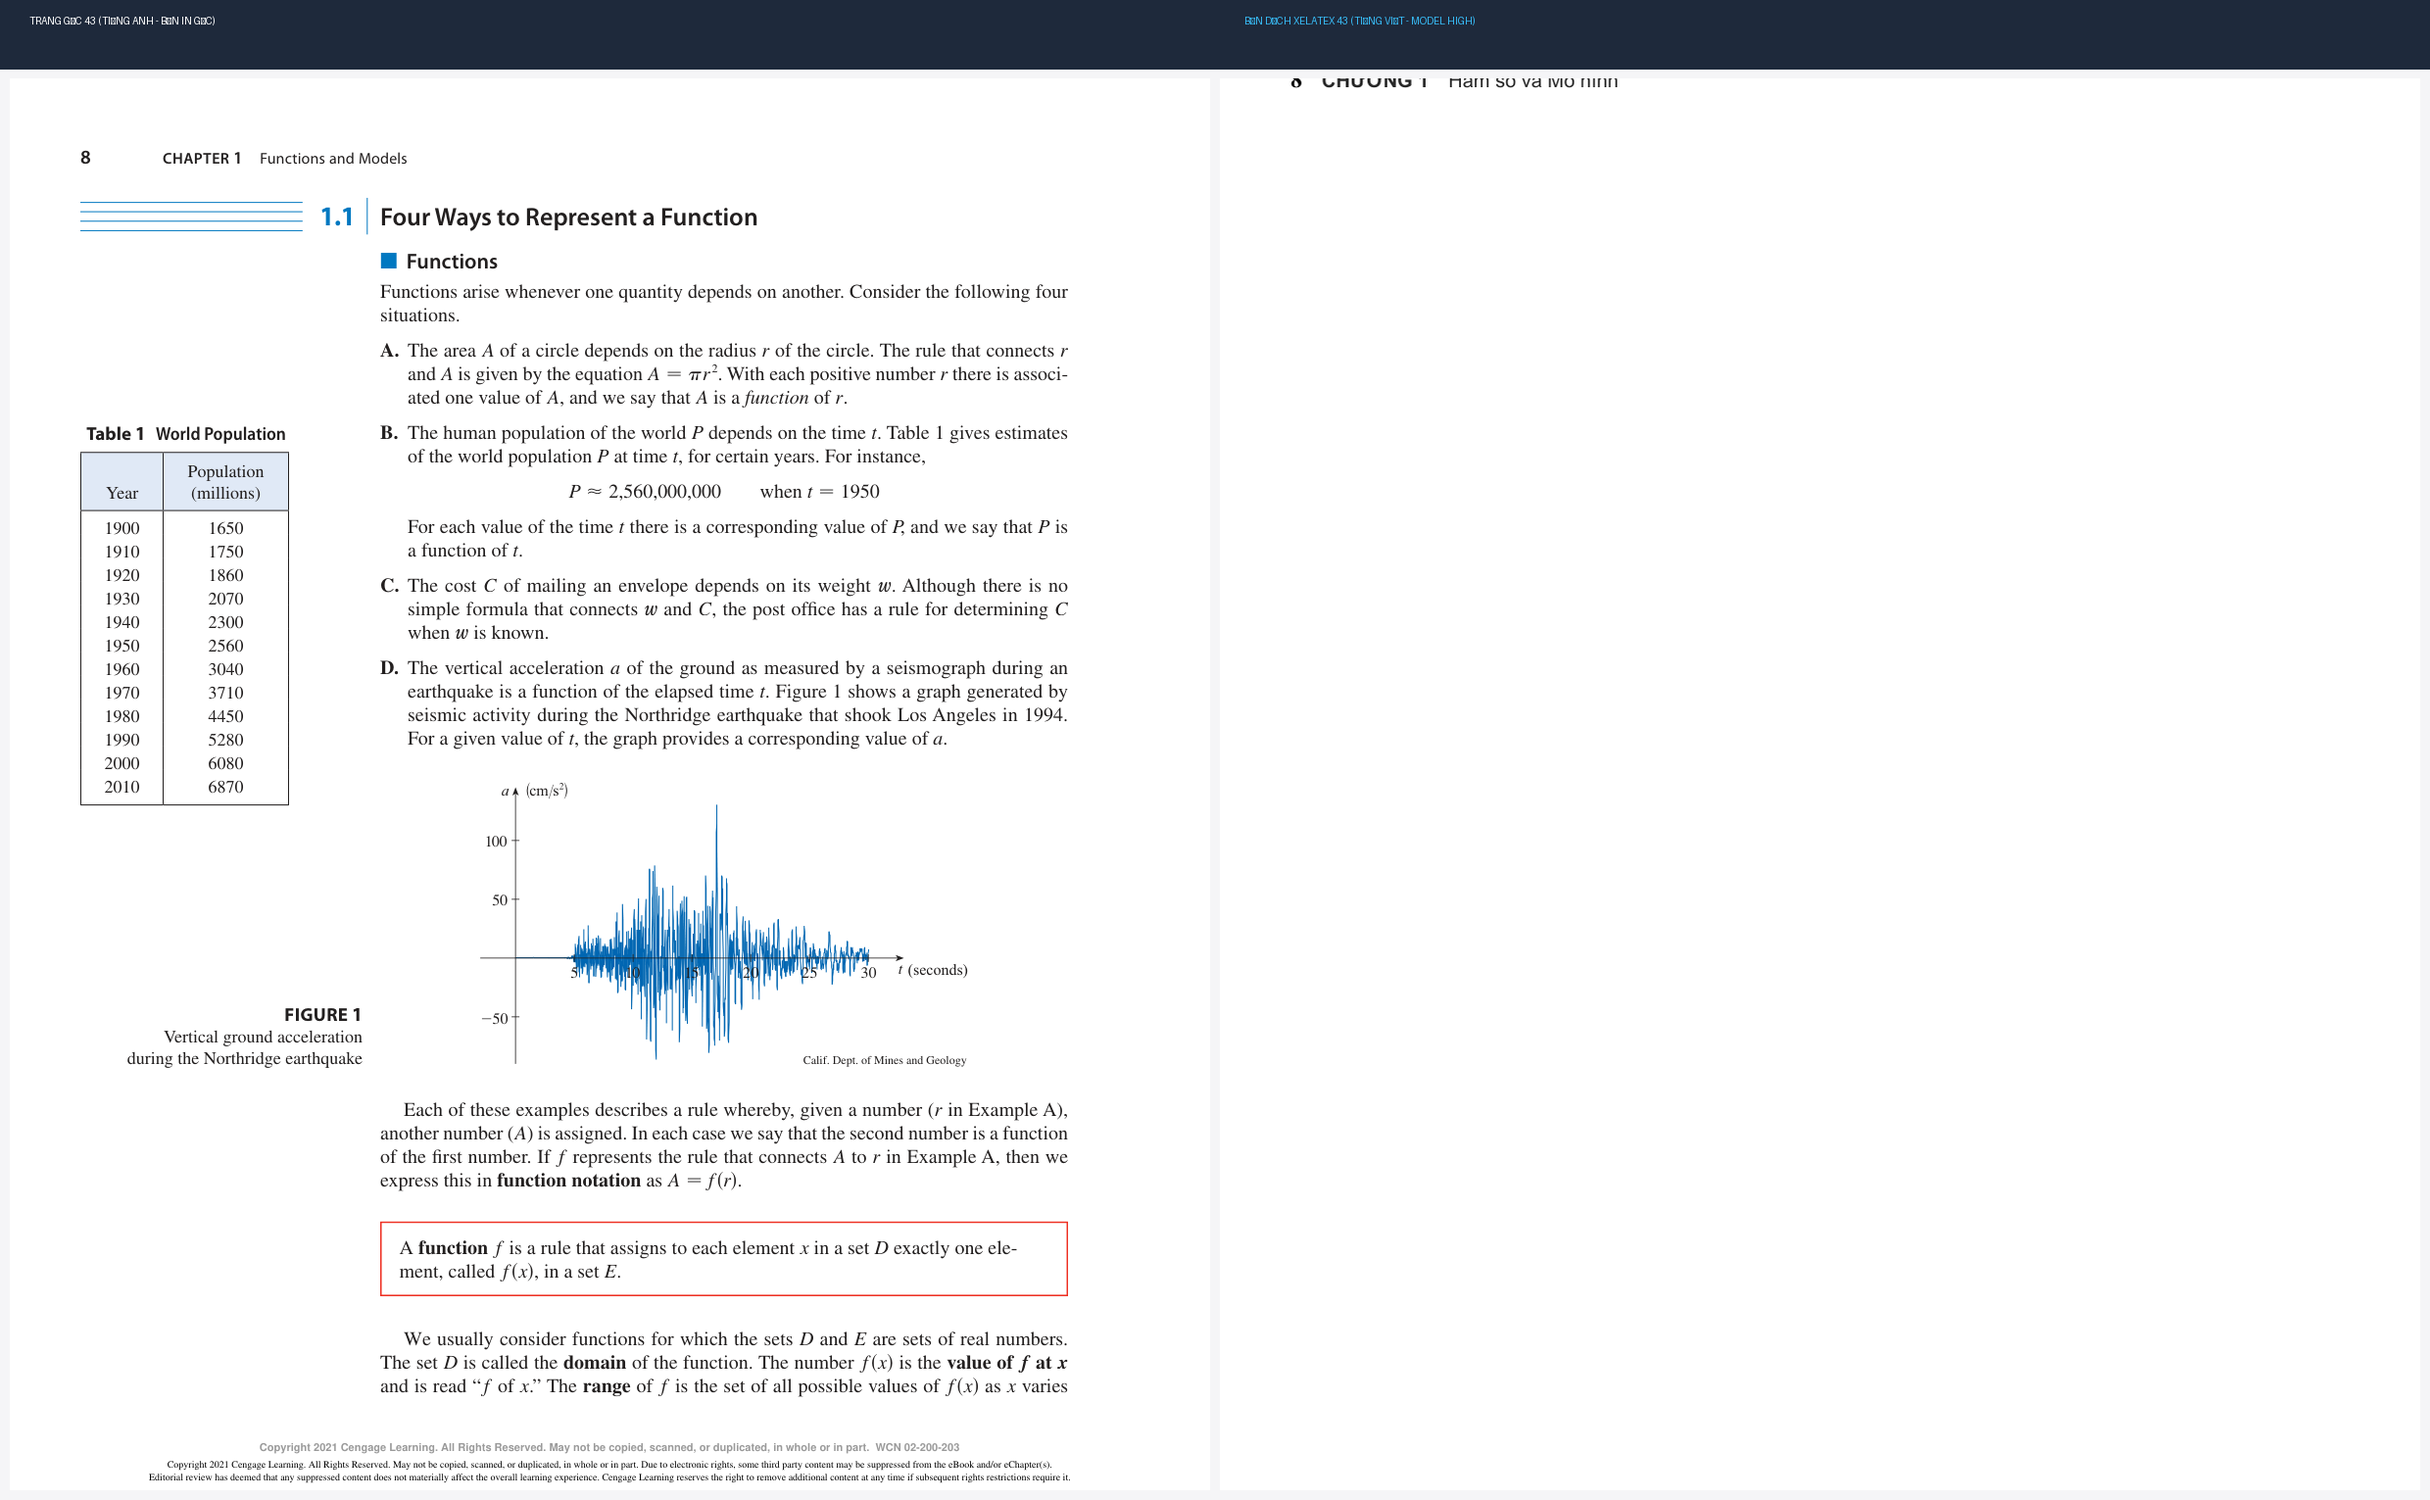
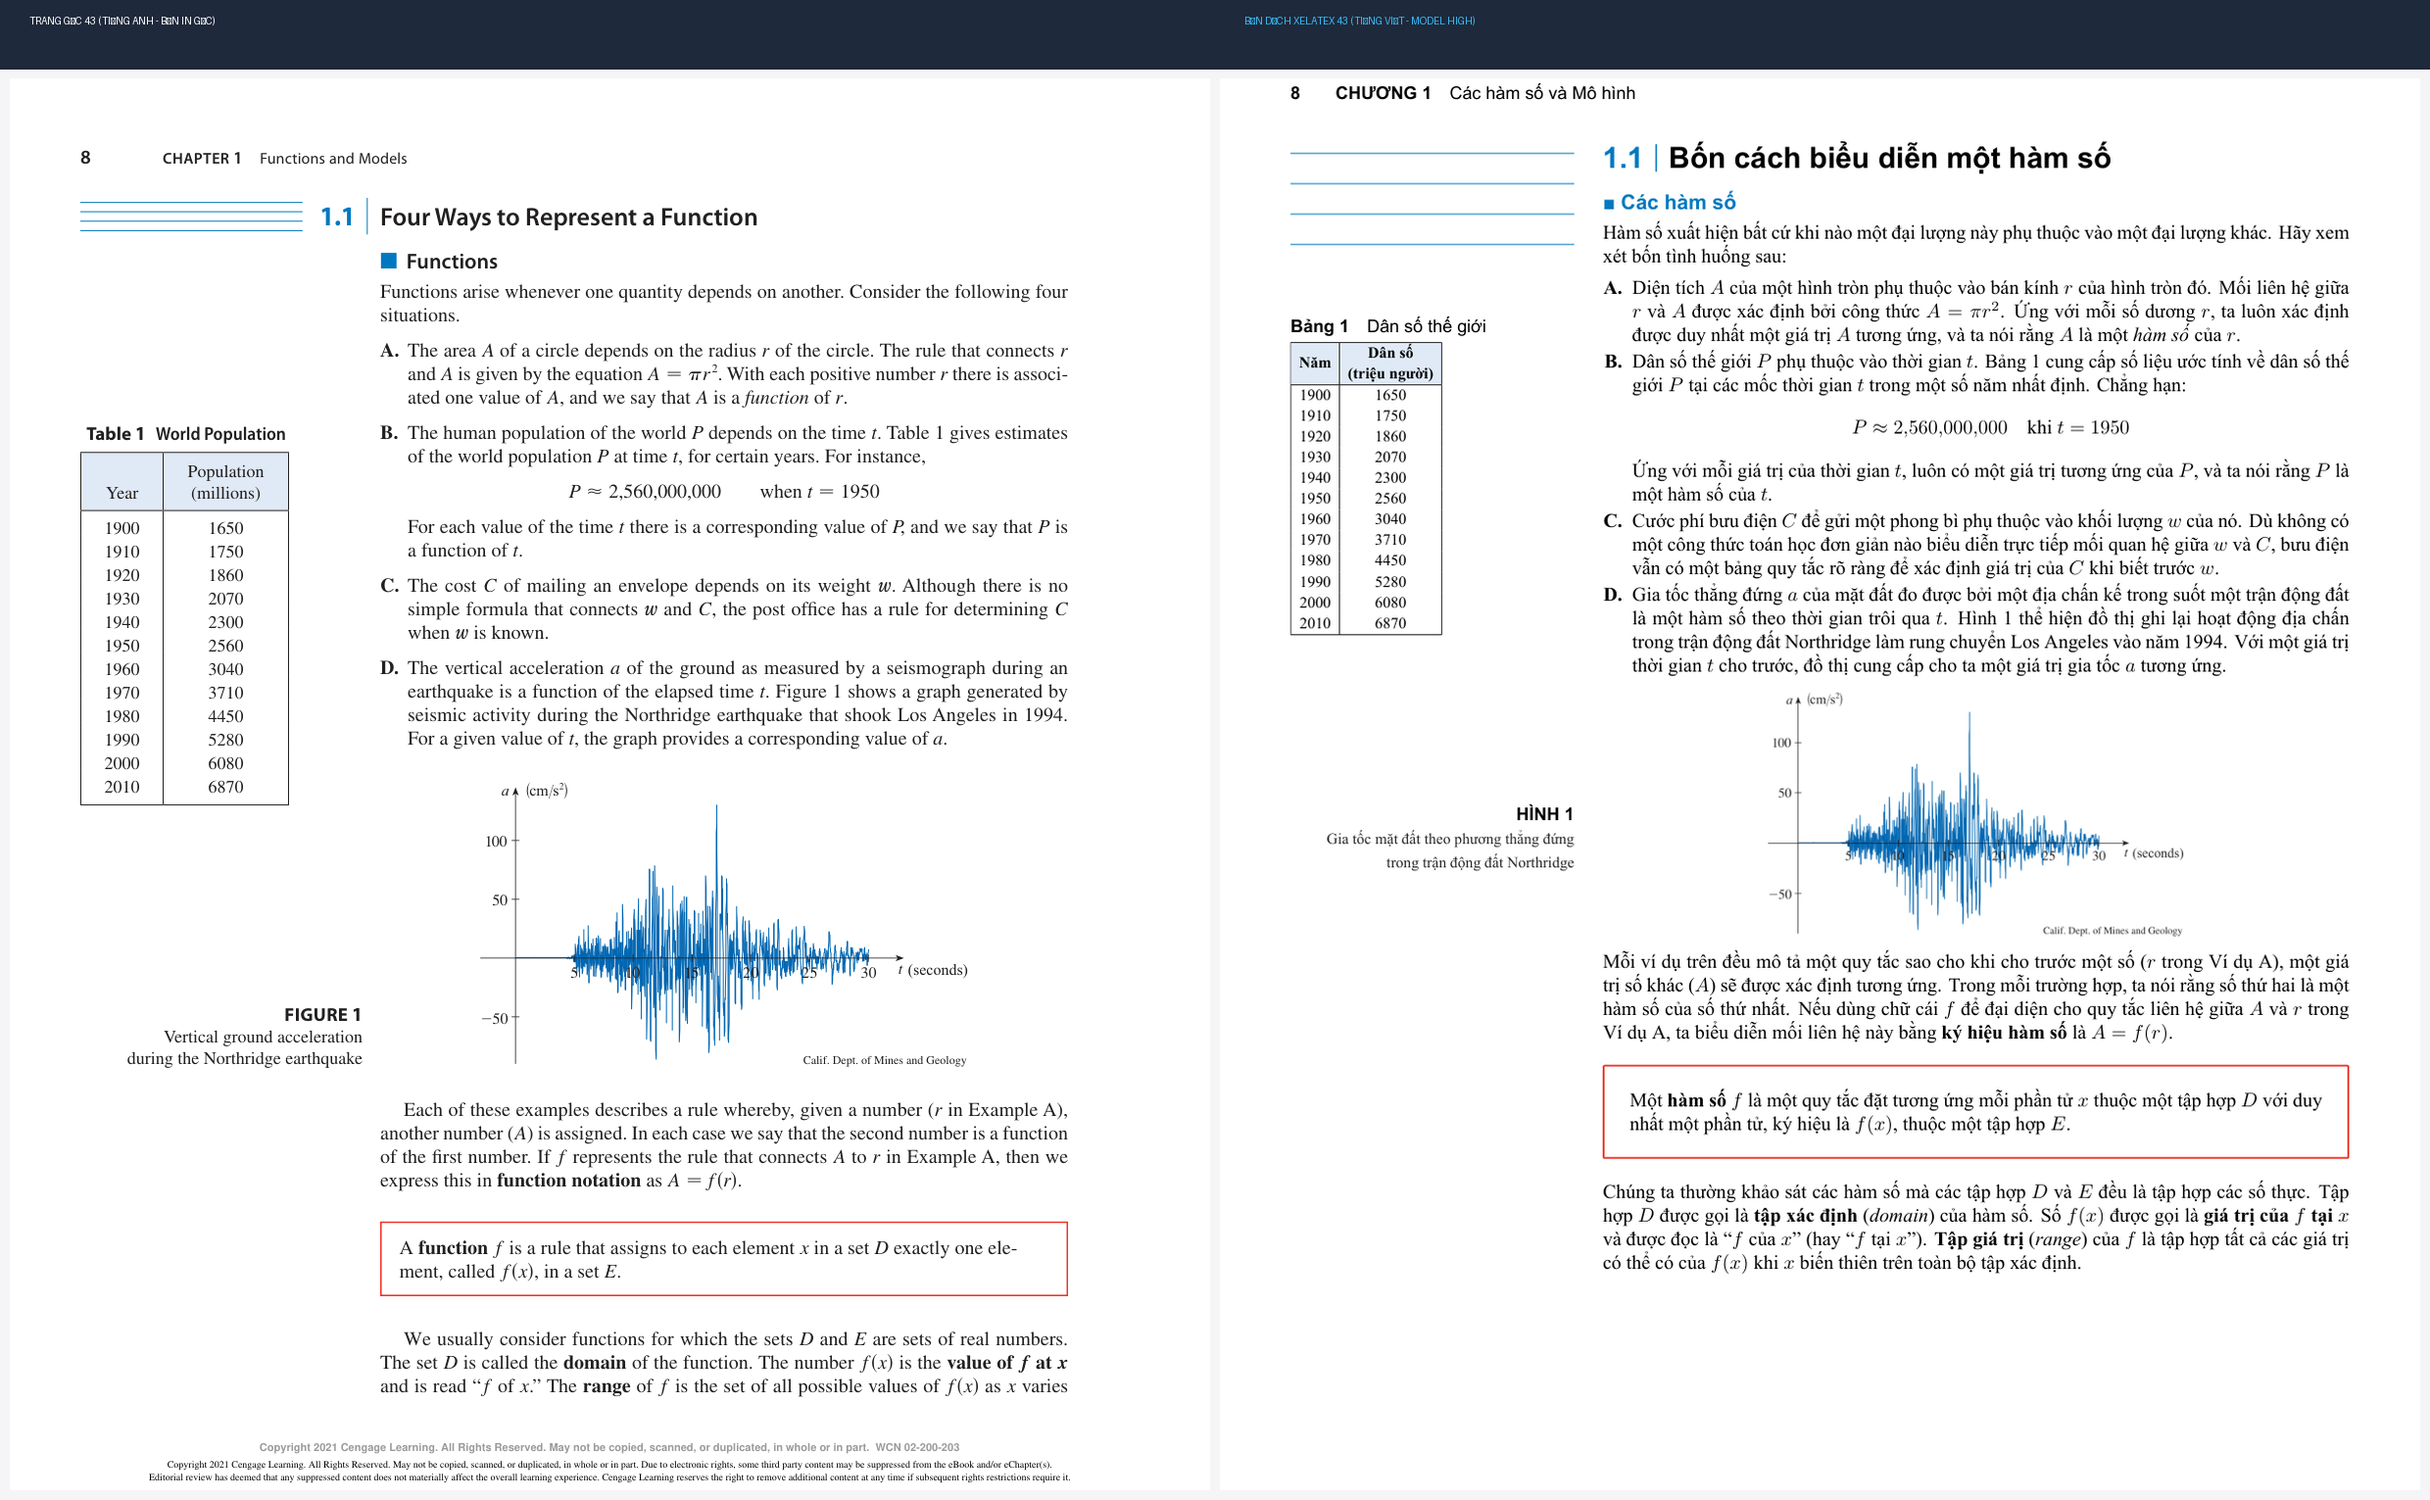
verify(ch01-p0043): tinh chinh doi chieu 98% trang 43 (1 trang chuan) [gemini-3.8-flash-high]

diff --git a/chapters/ch01/pages/page_0043.tex b/chapters/ch01/pages/page_0043.tex
@@ -1,15 +1,27 @@
-\fancyhead[L]{\textbf{\large 8}\quad\sffamily\textbf{\color{darkgray}CHƯƠNG 1}\quad\sffamily\color{darkgray}Hàm số và Mô hình}
+\fancyhead[L]{\fontsize{9pt}{11pt}\selectfont\textbf{\textsf{8}}\qquad \textbf{\textsf{CHƯƠNG 1}}\quad \textsf{Các hàm số và Mô hình}}
 \fancyhead[R]{}
 
 \noindent
-\begin{minipage}[t]{0.26\textwidth}
-    \vspace{3.75cm}
-    {\small\textbf{\textsf{Bảng 1}}\quad \textsf{Dân số thế giới}}\\[0.15cm]
-    \small
+\begin{minipage}[t]{0.268\textwidth}
+    % 4 vạch cyan trên cùng bên lề
+    \vspace*{-2pt}%
+    {\color{stewartcyan}%
+    \rule{\linewidth}{0.5pt}\vspace{3.5pt}\par
+    \rule{\linewidth}{0.5pt}\vspace{3.5pt}\par
+    \rule{\linewidth}{0.5pt}\vspace{3.5pt}\par
+    \rule{\linewidth}{0.5pt}\par
+    }
+
+    \vspace{1.15cm}
+    \noindent
+    {\fontsize{9pt}{11pt}\selectfont\textbf{\textsf{Bảng 1}}\quad \textsf{Dân số thế giới}}\\[2pt]
+    {\fontsize{8pt}{9.8pt}\selectfont
+    \setlength{\tabcolsep}{4pt}
+    \renewcommand{\arraystretch}{1.08}
     \begin{tabular}{|c|c|}
         \hline
         \rowcolor{stewarttableheader}
-        \textbf{Năm} & \textbf{\shortstack{Dân số\\(triệu người)}} \\
+        \textbf{Năm} & \textbf{\makecell{Dân số\\(triệu người)}} \\
         \hline
         1900 & 1650 \\
         1910 & 1750 \\
@@ -24,62 +36,56 @@
         2000 & 6080 \\
         2010 & 6870 \\
         \hline
-    \end{tabular}
+    \end{tabular}}
 
-    \vspace{3.35cm}
+    \vspace{3.0cm}
     {\raggedleft
-    {\small\textbf{\textsf{HÌNH 1}}}\\[2pt]
-    {\footnotesize Gia tốc thẳng đứng của mặt đất trong trận động đất Northridge}\par}
+    {\fontsize{9pt}{11pt}\selectfont\textbf{\textsf{HÌNH 1}}}\\[2pt]
+    {\fontsize{7.8pt}{9.8pt}\selectfont\color{darkgray} Gia tốc mặt đất theo phương thẳng đứng\\trong trận động đất Northridge}\par}
 \end{minipage}%
 \hfill
-\begin{minipage}[t]{0.71\textwidth}
+\begin{minipage}[t]{0.705\textwidth}
+    \vspace*{-8pt}
     \noindent
-    \parbox[c]{1.5cm}{%
-        \color{stewartcyan}%
-        \rule{1.5cm}{0.6pt}\\[2.2pt]%
-        \rule{1.5cm}{0.6pt}\\[2.2pt]%
-        \rule{1.5cm}{0.6pt}\\[2.2pt]%
-        \rule{1.5cm}{0.6pt}\\[2.2pt]%
-        \rule{1.5cm}{0.6pt}%
-    }%
-    \hspace{0.25cm}%
-    {\color{stewartcyan}\LARGE\textbf{\textsf{1.1}}}%
-    \hspace{0.25cm}%
-    {\color{stewartcyan}\rule[-0.2cm]{0.8pt}{0.85cm}}%
-    \hspace{0.25cm}%
-    {\LARGE\textbf{\textsf{Bốn cách biểu diễn một hàm số}}}
+    {\color{stewartcyan}\fontsize{15pt}{18pt}\selectfont\textbf{\textsf{1.1}}}%
+    \hspace{6pt}%
+    {\color{stewartcyan}\rule[-2pt]{0.8pt}{14pt}}%
+    \hspace{6pt}%
+    {\fontsize{15pt}{18pt}\selectfont\textbf{\textsf{Bốn cách biểu diễn một hàm số}}}
     
-    \vspace{0.4cm}
-    \noindent{\large\textbf{\textsf{\color{stewartcyan}■ Hàm số}}}
-    \vspace{0.18cm}
+    \vspace{8pt}
+    \noindent{\fontsize{10.5pt}{13pt}\selectfont\textbf{\textsf{\color{stewartcyan}■ Các hàm số}}}
+    \vspace{3pt}
 
     Hàm số xuất hiện bất cứ khi nào một đại lượng này phụ thuộc vào một đại lượng khác. Hãy xem xét bốn tình huống sau:
 
-    \begin{description}[leftmargin=1.5em, itemsep=0.15cm, topsep=0.15cm]
-        \item[\textbf{A.}] Diện tích $A$ của một hình tròn phụ thuộc vào bán kính $r$ của hình tròn đó. Mối liên hệ giữa $r$ và $A$ được xác định bởi công thức $A = \pi r^2$. Ứng với mỗi số dương $r$, ta luôn xác định được duy nhất một giá trị $A$ tương ứng, và ta nói rằng $A$ là một \textit{hàm số} của $r$.
+    \begin{enumerate}[label=\textbf{\Alph*.}, leftmargin=1.5em, itemsep=1.5pt, topsep=2pt, parsep=0pt]
+        \item Diện tích $A$ của một hình tròn phụ thuộc vào bán kính $r$ của hình tròn đó. Mối liên hệ giữa $r$ và $A$ được xác định bởi công thức $A = \pi r^2$. Ứng với mỗi số dương $r$, ta luôn xác định được duy nhất một giá trị $A$ tương ứng, và ta nói rằng $A$ là một \textit{hàm số} của $r$.
 
-        \item[\textbf{B.}] Dân số thế giới $P$ phụ thuộc vào thời gian $t$. Bảng 1 cung cấp số liệu ước tính về dân số thế giới $P$ tại các mốc thời gian $t$ trong một số năm nhất định. Chẳng hạn:
+        \item Dân số thế giới $P$ phụ thuộc vào thời gian $t$. Bảng 1 cung cấp số liệu ước tính về dân số thế giới $P$ tại các mốc thời gian $t$ trong một số năm nhất định. Chẳng hạn:
         \[
         P \approx 2{,}560{,}000{,}000 \quad \text{khi } t = 1950
         \]
         Ứng với mỗi giá trị của thời gian $t$, luôn có một giá trị tương ứng của $P$, và ta nói rằng $P$ là một hàm số của $t$.
 
-        \item[\textbf{C.}] Cước phí bưu điện $C$ để gửi một phong bì phụ thuộc vào trọng lượng $w$ của nó. Dù không có một công thức toán học đơn giản nào biểu diễn trực tiếp mối quan hệ giữa $w$ và $C$, bưu điện vẫn có một bảng quy tắc rõ ràng để xác định giá trị của $C$ khi biết trước $w$.
+        \item Cước phí bưu điện $C$ để gửi một phong bì phụ thuộc vào khối lượng $w$ của nó. Dù không có một công thức toán học đơn giản nào biểu diễn trực tiếp mối quan hệ giữa $w$ và $C$, bưu điện vẫn có một bảng quy tắc rõ ràng để xác định giá trị của $C$ khi biết trước $w$.
 
-        \item[\textbf{D.}] Gia tốc thẳng đứng $a$ của mặt đất đo được bởi một địa chấn kế trong suốt một trận động đất là một hàm số theo thời gian trôi qua $t$. Hình 1 thể hiện đồ thị ghi lại hoạt động địa chấn trong trận động đất Northridge làm rung chuyển Los Angeles vào năm 1994. Với một giá trị thời gian $t$ cho trước, đồ thị cung cấp cho ta một giá trị gia tốc $a$ tương ứng.
-    \end{description}
+        \item Gia tốc thẳng đứng $a$ của mặt đất đo được bởi một địa chấn kế trong suốt một trận động đất là một hàm số theo thời gian trôi qua $t$. Hình 1 thể hiện đồ thị ghi lại hoạt động địa chấn trong trận động đất Northridge làm rung chuyển Los Angeles vào năm 1994. Với một giá trị thời gian $t$ cho trước, đồ thị cung cấp cho ta một giá trị gia tốc $a$ tương ứng.
+    \end{enumerate}
 
-    \vspace{0.08cm}
-    \begin{center}
-        \includegraphics[width=0.88\linewidth]{images/figure_1_clean.png}
-    \end{center}
-    \vspace{-0.2cm}
+    \vspace{2pt}
+    {\centering
+    \includegraphics[width=7.6cm]{images/figure_1_tight.png}\par}
+    \vspace{2pt}
 
     Mỗi ví dụ trên đều mô tả một quy tắc sao cho khi cho trước một số ($r$ trong Ví dụ A), một giá trị số khác ($A$) sẽ được xác định tương ứng. Trong mỗi trường hợp, ta nói rằng số thứ hai là một hàm số của số thứ nhất. Nếu dùng chữ cái $f$ để đại diện cho quy tắc liên hệ giữa $A$ và $r$ trong Ví dụ A, ta biểu diễn mối liên hệ này bằng \textbf{ký hiệu hàm số} là $A = f(r)$.
 
+    \vspace{4pt}
     \begin{definitionbox}
     Một \textbf{hàm số} $f$ là một quy tắc đặt tương ứng mỗi phần tử $x$ thuộc một tập hợp $D$ với duy nhất một phần tử, ký hiệu là $f(x)$, thuộc một tập hợp $E$.
     \end{definitionbox}
 
+    \vspace{4pt}
+    \noindent
     Chúng ta thường khảo sát các hàm số mà các tập hợp $D$ và $E$ đều là tập hợp các số thực. Tập hợp $D$ được gọi là \textbf{tập xác định} (\textit{domain}) của hàm số. Số $f(x)$ được gọi là \textbf{giá trị của $f$ tại $x$} và được đọc là ``$f$ của $x$'' (hay ``$f$ tại $x$''). \textbf{Tập giá trị} (\textit{range}) của $f$ là tập hợp tất cả các giá trị có thể có của $f(x)$ khi $x$ biến thiên trên toàn bộ tập xác định.
 \end{minipage}
